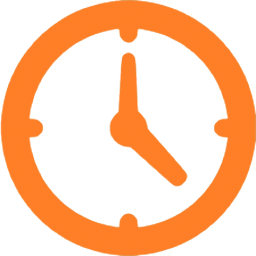
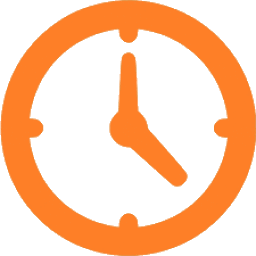
made backgrounds transparent

diff --git a/sw.js b/sw.js
@@ -39,10 +39,10 @@
 
 var precacheConfig = [
     ["index.html", "6b43b679d8f5dbb12fcf8df0797e2275"],
-    ["icon-512x512.png", "2f7998dd738b481c09f771f52ce5f3e0"],
-    ["icon-384x384.png", "7eb314e409e7f0a36f24128a2e0da507"],
-    ["icon-256x256.png", "507af18aee509be5c863d23310f6e415"],
-    ["icon-192x192.png", "dfd5493b44a4a46e8538a475de5078cb"],
+    ["icon-512x512.png", "003fe0cbfc2f5da20f8f1cf8fd01b59a"],
+    ["icon-384x384.png", "8629098b951dcae052261c58fc6478cf"],
+    ["icon-256x256.png", "e17b65ff7482ed2ba2536bd37fda145c"],
+    ["icon-192x192.png", "f211827f8a7252dc4e7b7d6ffcb5e363"],
     ["pwa.js", "297c2656925ad8b029f41984a8c1f4f2"]
 ];
 var cacheName = 'sw-precache-csclock' + (self.registration ? self.registration.scope : '');
